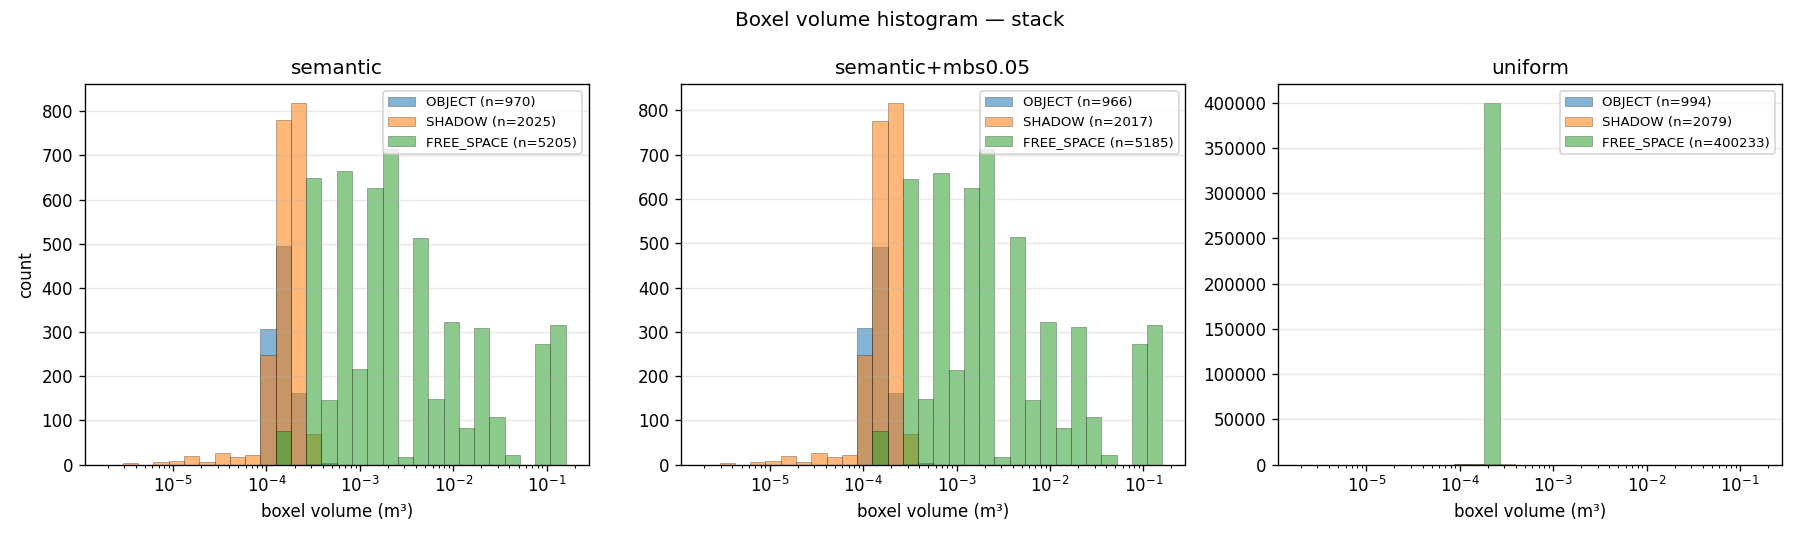
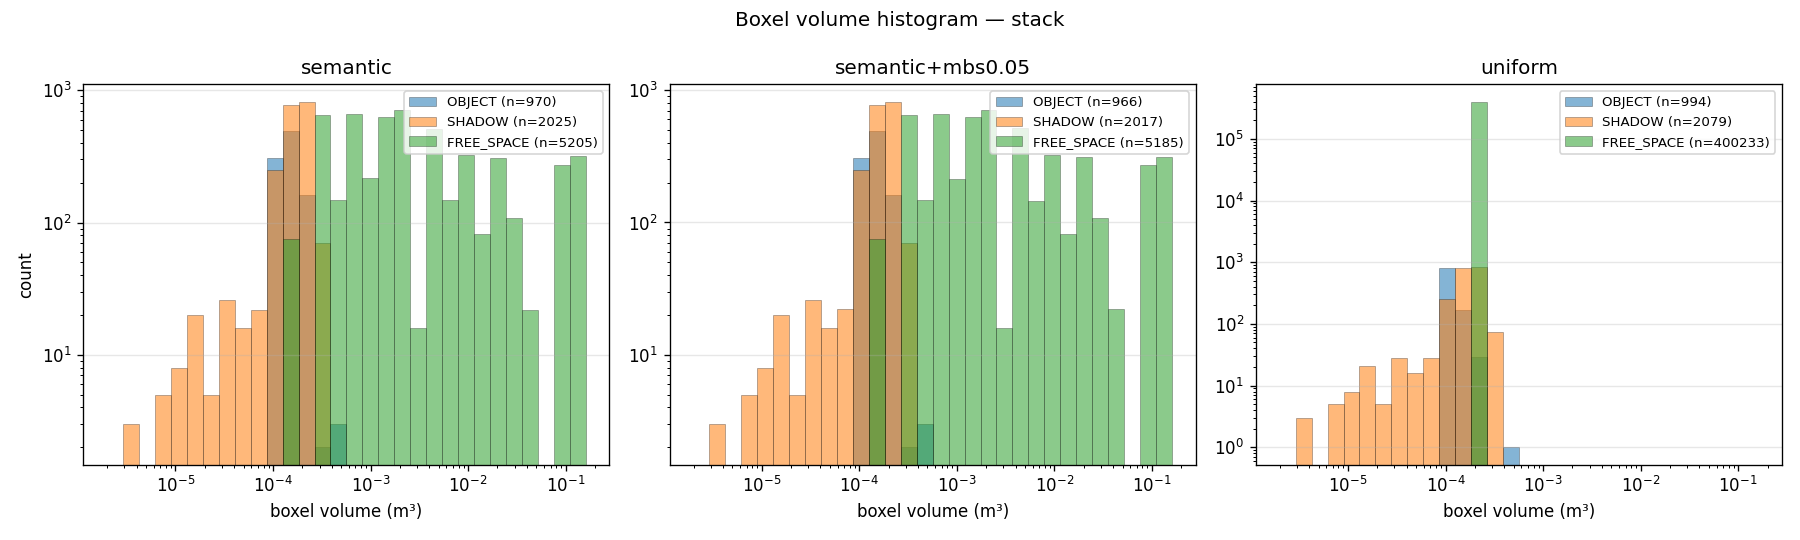
#99 polish: log-y on volume histogram + redder, top-pinned timeout
boxel_volume_histogram now uses `ax.set_yscale('log')` on every
panel so OBJECT (n~1.3k) and SHADOW (n~2.7k) stay visible on the
uniform panel where FREE_SPACE spikes to ~90k.

failure_modes: timeout colour bumped from #7f0000 (dark red, read
as brownish next to `no_summary`) to #ff1744 (vivid red), and
pinned to the TOP of every stack so it's the topmost band regardless
of alphabetical sort.  Worst-case visual ranking is now: green
success at the bottom, fault stack in the middle, vivid-red timeout
on top.

diff --git a/eval_plotter.py b/eval_plotter.py
@@ -47,7 +47,12 @@ except ImportError:
 EXIT_REASON_COLOUR = {
     "success":          "#2ca02c",   # green
     "planner_failed":   "#d62728",   # red
-    "timeout":          "#7f0000",   # dark red
+    # Audit #99 polish — timeout is the worst-case "ran out of clock"
+    # outcome.  Bumped from dark-red (#7f0000) to vivid red so it
+    # reads clearly red against the brown ``no_summary`` band in a
+    # stack, and pinned to the top of every stack (see
+    # plot_failure_modes ordering below).
+    "timeout":          "#ff1744",   # vivid red
     "replan_limit":     "#ff7f0e",   # orange
     "no_summary":       "#8c564b",   # brown
     "physics_mismatch": "#9467bd",   # purple
@@ -599,6 +604,10 @@ def plot_boxel_volume_histogram(
                     alpha=0.55, edgecolor="black", linewidth=0.3,
                     label=f"{type_labels[tk]} (n={len(vs)})")
         ax.set_xscale("log")
+        # Audit #99 polish — log-y so OBJECT/SHADOW (~1-3k counts) stay
+        # visible on the uniform panel where FREE_SPACE spikes to ~90k
+        # and would otherwise flatten the other two categories.
+        ax.set_yscale("log")
         ax.set_xlabel("boxel volume (m³)")
         ax.set_title(variant)
         ax.grid(True, axis="y", alpha=0.3)
@@ -1057,6 +1066,12 @@ def plot_failure_modes(grouped: Dict[tuple, Dict[str, int]],
     if "success" in all_reasons:
         all_reasons.remove("success")
         all_reasons = ["success"] + all_reasons
+    # Audit #99 polish — timeout is the worst-case ("ran out of clock");
+    # pin to the TOP of every stack so the vivid-red band is the topmost
+    # element regardless of how alphabetical sort places it.
+    if "timeout" in all_reasons:
+        all_reasons.remove("timeout")
+        all_reasons.append("timeout")
 
     labels = [f"{g}\n{v}" for g, v in keys]
     xs = list(range(len(keys)))
